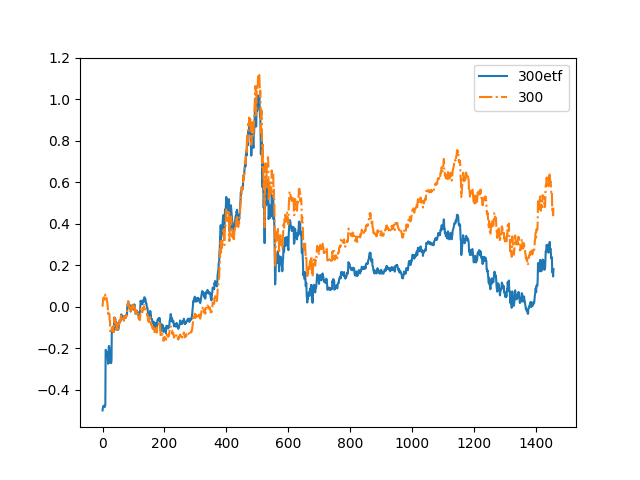
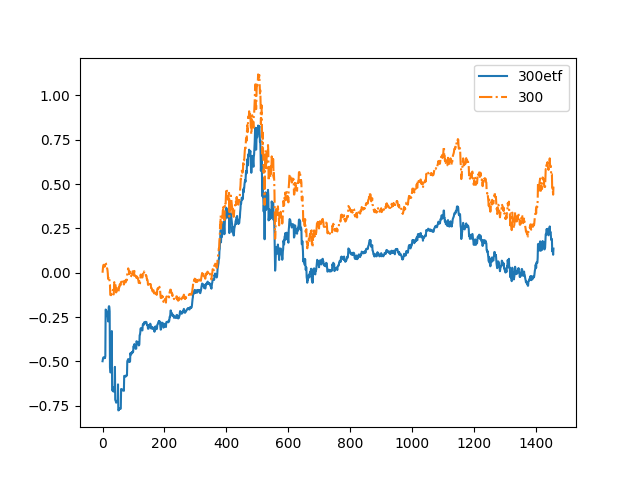
决定改用bt框架进行策略回测，照着库的文档试了一下，我折腾几个月的东西一下就做出来了。唉。

diff --git a/Simulater2.py b/Simulater2.py
@@ -43,6 +43,9 @@ bCut: 是否进行止盈操作
 cutRate: 止盈点
 bDoCut: 是否要进行止盈操作了？由程序判断
 maxPrice: 近期最高股价
+cutTimes: 进行了几次止盈了？最多四次
+backMoney: 止盈得到的钱
+backStack: 止盈回来的股票数量
 """
 class simulater(object):
     def __init__(self, money, data, totalTimes, freq, feeRate, bCut, cutRate):
@@ -74,6 +77,9 @@ class simulater(object):
         self.cutRate = cutRate
         self.bDoCut = [False, False]
         self.maxPrice = [0.0, 0.0]
+        self.cutTimes = [0, 0]
+        self.backMoney = [0.0, 0.0]
+        self.backStack = [0, 0]
         
         
     # 计算交易手续费
@@ -106,7 +112,35 @@ class simulater(object):
         if self.bDoCut[code] == True:
             # 执行止盈操作，卖出持仓股票的一半
             num = int(self.position[code][days]/200.0)*100.0
-            print(days, code, num, self.position[code][days])
+            # print(days, code, num, self.position[code][days])
+            if self.cutTimes[code] < 4 and num > 100:
+                # 进行止盈相关操作
+                price = self.data[code]["close"][days]
+                fee = self.getFee(num, price)
+                self.fee[code][days] += fee
+                total = price*num - fee
+                self.backMoney[code] += total
+                self.backStack[code] += num
+                # 在总的数据中增加止盈的数据
+                #print(days, code, self.position[code][days], num, self.position[code][days]-num)
+                # 下面这行出错，改天来改
+                # print(self.position[code][days])
+                #self.position[code][days] = self.position[code][days] - num
+                self.position[code][days] -= num
+                # print(self.position[code][days])
+                self.value[code][days] = self.position[code][days] * price
+                # print(self.value[code][days])
+                # 更新止盈次数，将股票现值设为最高值
+                self.cutTimes[code] += 1
+                self.maxPrice[code] = price
+                #print(days, code, self.backStack[code])
+                # 更新现金流量表，算xirr用的
+                v = total * (-1)
+                d = GetHistoryData.TransfDate2Datetime(self.data[code]["date"][days])
+                self.cashFlow[code].append(v)
+                self.cashDate[code].append(d)
+                self.totalCashFlow.append(v)
+                self.totalCashDate.append(d)
     
         
     # 计算给定资金能买多少股票
@@ -243,6 +277,7 @@ class simulater(object):
         plt.savefig("simulater_05.png")
         
         plt.figure()
+        print(self.xirr[0])
         plt.plot(self.xirr[0], label = "300")
         plt.plot(self.xirr[1], label = "nas")
         plt.plot(self.totalXirr, label = "total")
@@ -270,7 +305,9 @@ class simulater(object):
             v += value
             self.cashFlow[code].append(value)
             self.cashDate[code].append(date)
+            # print(code, days, value)
             retXIRR = xirr.xirr(self.cashFlow[code], self.cashDate[code])
+            # print(code, days, retXIRR)
             # 开始的时候会出现无限大的值，所以加这个
             # 画图得知，前150天数据不靠谱，都设成0吧
             if days <= 150:
@@ -296,16 +333,16 @@ class simulater(object):
     # 交易循环
     def run(self):
         for days in range(self.totalTimes):
-            # 如果设定了要进行止盈操作，先判断是否到了止盈点
-            if self.bCut == True:
-                for code in range(2):
-                    if self.isCut(code, days):
-                        self.doCut(code, days)
             if days % self.freq == 0: #进行交易
                 self.doTrade(days)
             else:
                 for code in range(2):
                     self.update(code, days)
+            # 如果设定了要进行止盈操作，先判断是否到了止盈点
+            if self.bCut == True:
+                for code in range(2):
+                    if self.isCut(code, days):
+                        self.doCut(code, days)
             self.combine(days)
             self.cal_xirr(days)
             # print(self.xirr[0][days], self.xirr[1][days])

diff --git a/btTest.py b/btTest.py
@@ -1,0 +1,33 @@
+# -*- coding:utf-8 -*-
+# 尝试一下使用框架吧，自己写太乱了
+# 这里用bt
+# http://pmorissette.github.io/bt/#what-is-bt
+
+
+import bt
+import matplotlib.pyplot as plt
+
+
+if __name__ == "__main__":
+    # 获取数据
+    data = bt.get("spy, agg", start = "2010-01-01")
+    print(data.head())
+    # 创建策略
+    s = bt.Strategy("s1", 
+    [bt.algos.RunMonthly(),
+     bt.algos.SelectAll(),
+     bt.algos.WeighEqually(),
+     bt.algos.Rebalance()])
+    # 建立回测
+    test = bt.Backtest(s, data)
+    res = bt.run(test)
+    # 输出结果
+    fig = res.plot()
+    print(type(fig))
+    plt.savefig("btTest.png")
+    res.display()
+    fig = res.plot_histogram()
+    print(type(fig))
+    plt.savefig("btHistTest.png")
+    res.plot_security_weights()
+    plt.savefig("btWeights.png")

diff --git a/xirr_cal.py b/xirr_cal.py
@@ -85,6 +85,7 @@ def xirr(values, dates):
         newRate = resultRate - (resultValue / irrResultDeriv(values, dates, resultRate))
         epsRate = abs(newRate - resultRate)
         resultRate = newRate
+        # print("计算xirr%f" % resultRate)
         if resultRate < -1:
             resultRate = -0.999999999
         contLoop = (epsRate > epsMax) and (abs(resultValue) > epsMax)
